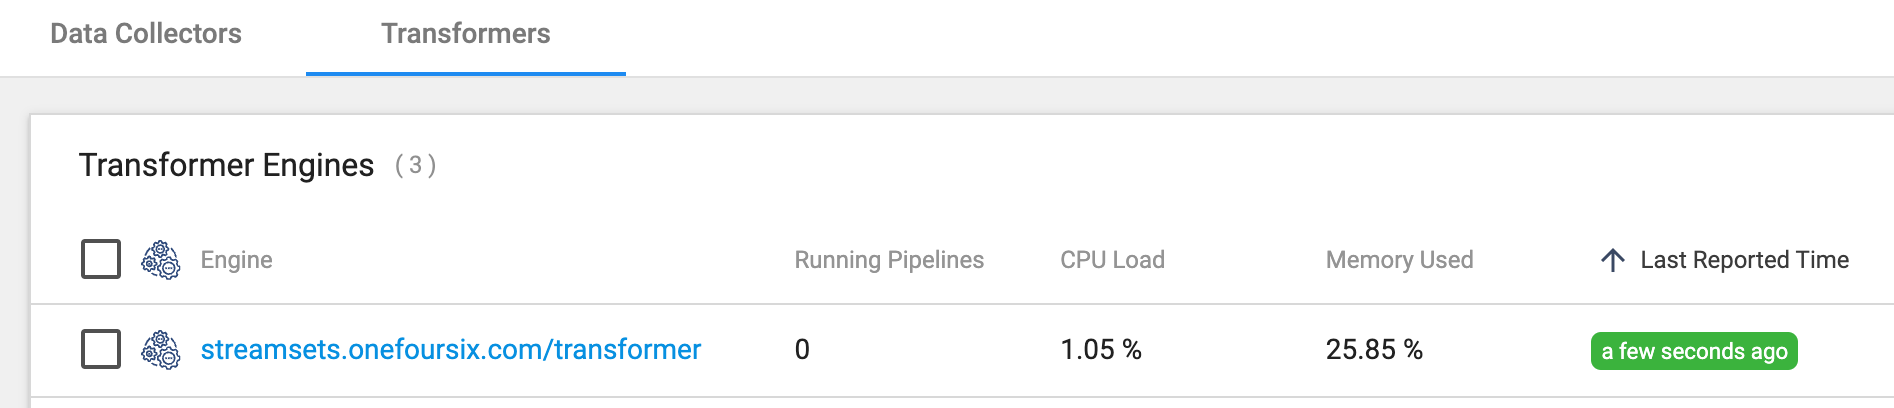
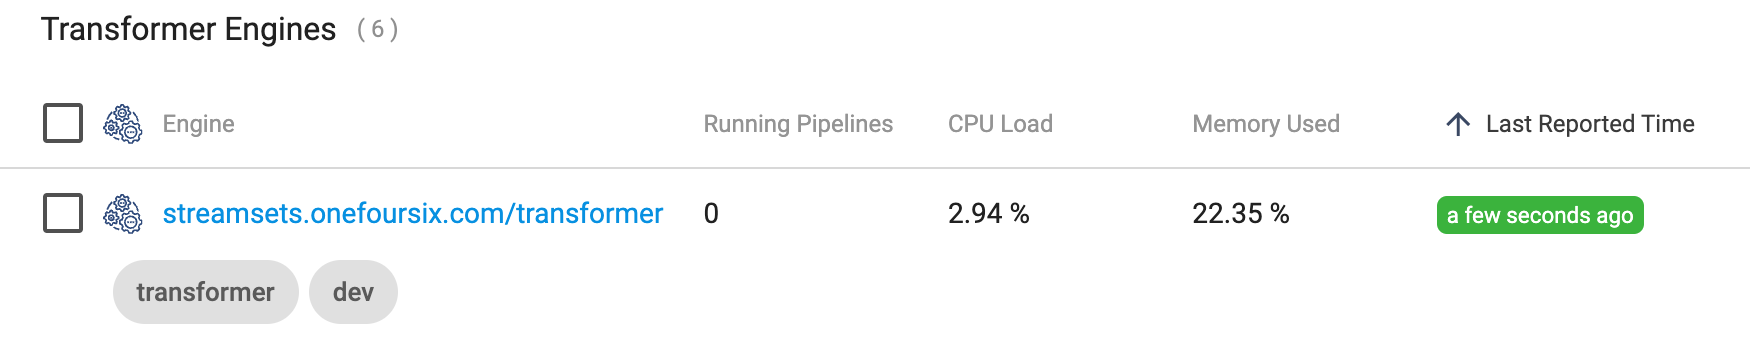
updated readme

diff --git a/README.md b/README.md
@@ -60,7 +60,7 @@ Important points:
 * The ````LOAD_BALANCER_HOST_NAME```` must correspond to the Ingress Controller's External IP or hostname as described above. For this example I'll use the hostname ````streamsets.onefoursix.com````
 
 
-### Execute the script deploy-transformer.sh with the desired arguments
+### Deploy a single instance of Transformer
 To deploy a single instance of Transformer, execute the script ````deploy-transformer.sh```` with the following arguments (in order):
 * transformer-namespace
 * transformer-name 
@@ -70,19 +70,60 @@ To deploy a single instance of Transformer, execute the script ````deploy-transf
 
 For example:
 ````
-$ ./deploy-transformer.sh \
-        ns1 \
-        transformer \ 
-        streamsets/transformer:scala-2.12_4.2.0 \
-        19630 \
-        transformer,dev
+$ ./deploy-transformer.sh ns1 transformer streamsets/transformer:scala-2.12_4.2.0 19630 transformer,dev
 ````
 
+That command will deploy an instance of Transformer 4.2.0 using the Scala 2.12 image into the namespace ````ns1```` with the Ingress path prefix ````transformer````, with a Service port of ````19630````, and with the Labels ````transformer```` and ````dev````.
 
-### Confirm that Transformer is heartbeating to Control Hub
-After a minute or so, you should see the instance of Transformer has registered and is heartbeating to Control Hub:
+You should see output like this:
+````
+./deploy-transformer.sh ns1 transformer streamsets/transformer:scala-2.12_4.2.0 19630 transformer,dev
+Deploying transformer in namespace ns1...
+Using existing namespace ns1
+Context "gke_streamsets-onefoursix_us-west1-b_cluster-1" modified.
+secret/transformer-creds created
+Looking for existing Service Accounts...
+Creating Service Account streamsets-transformer-sa
+serviceaccount/streamsets-transformer-sa created
+Looking for existing Roles...
+No resources found in ns1 namespace.
+Creating Role streamsets-transformer-role
+role.rbac.authorization.k8s.io/streamsets-transformer-role created
+Looking for existing RolesBindings...
+No resources found in ns1 namespace.
+Creating Role Binding streamsets-transformer-rb
+rolebinding.rbac.authorization.k8s.io/streamsets-transformer-rb created
+configmap/transformer-config created
+persistentvolumeclaim/transformer-pvc created
+deployment.apps/transformer created
+service/transformer created
+ingress.networking.k8s.io/transformer created
+Done
+````
 
-  <img src="images/transformer-heartbeat.png" width="70%">
+### (Optional) Deploy additional instances of Transformer
+
+I'll deploy two more instances of Transformer into the same namespace. 
+
+When deploying more than one instance, make sure to observe the following:
+
+* Each instance's ````transformer-name```` value must be unique
+* Each instance's ````transformer-port````must be unique 
+ 
+For example, I'll install instances with the names ````transformer2```` and ````transformer3````, on ports ````19631```` and ````19632```` respectively, using these two commands:
+
+````
+$ ./deploy-transformer.sh ns1 transformer2 streamsets/transformer:scala-2.12_4.2.0 19631 transformer,dev
+
+$ ./deploy-transformer.sh ns1 transformer3 streamsets/transformer:scala-2.12_4.2.0 19632 transformer,qa
+````
+Note that ````transformer3 has the Label ````qa```` rather than ````dev````.
+
+### Confirm that all deployed instances of Transformer are heartbeating to Control Hub
+After a minute or so, you should see all deployed instances of Transformer are heartbeating to Control Hub, with the specified Labels:
+
+  <img src="images/t3.png" width="70%">
+
 
 ### Confirm that Transformer is Accessible
 Create a new pipeline and make sure Transformer is accessible for Authoring:
